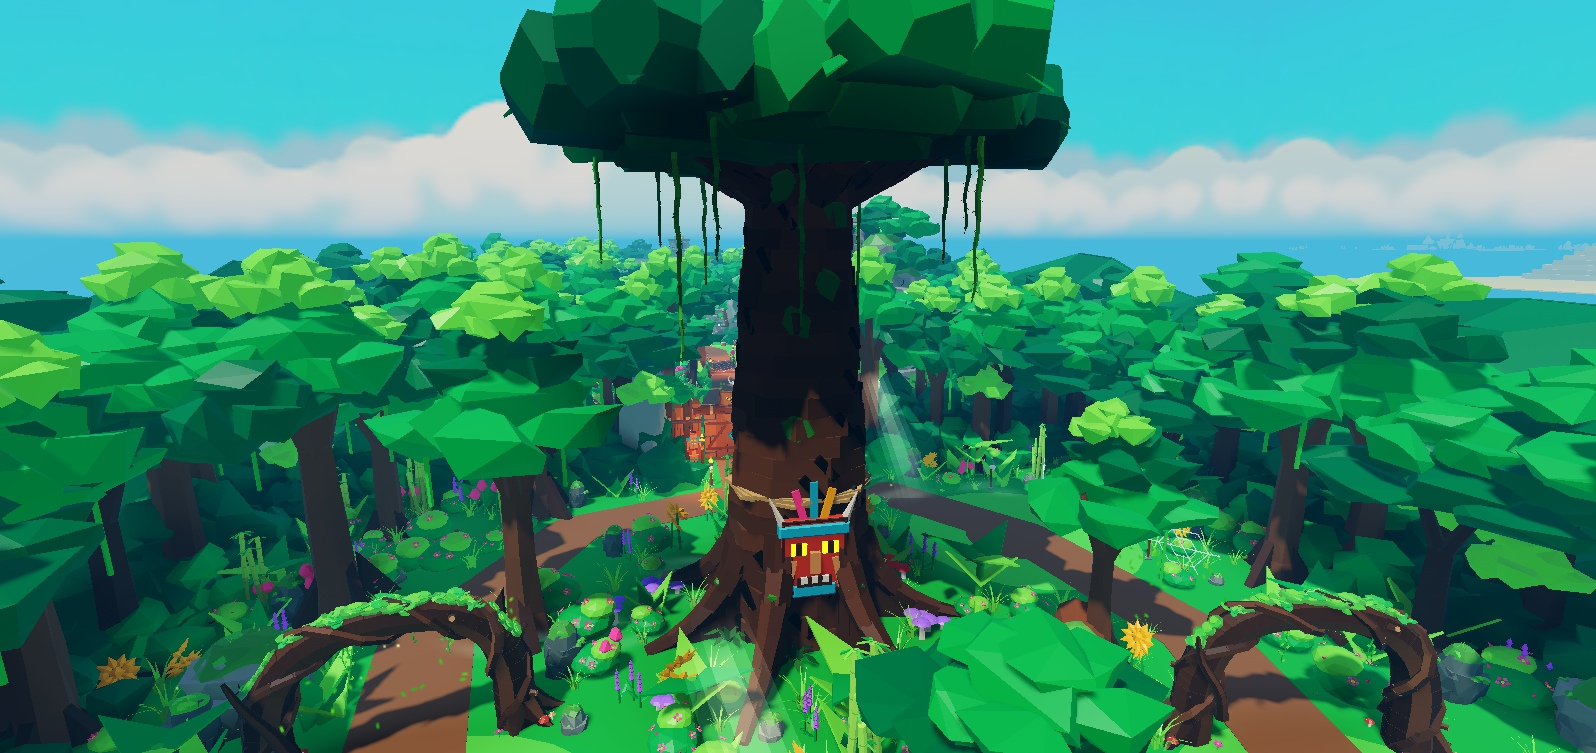
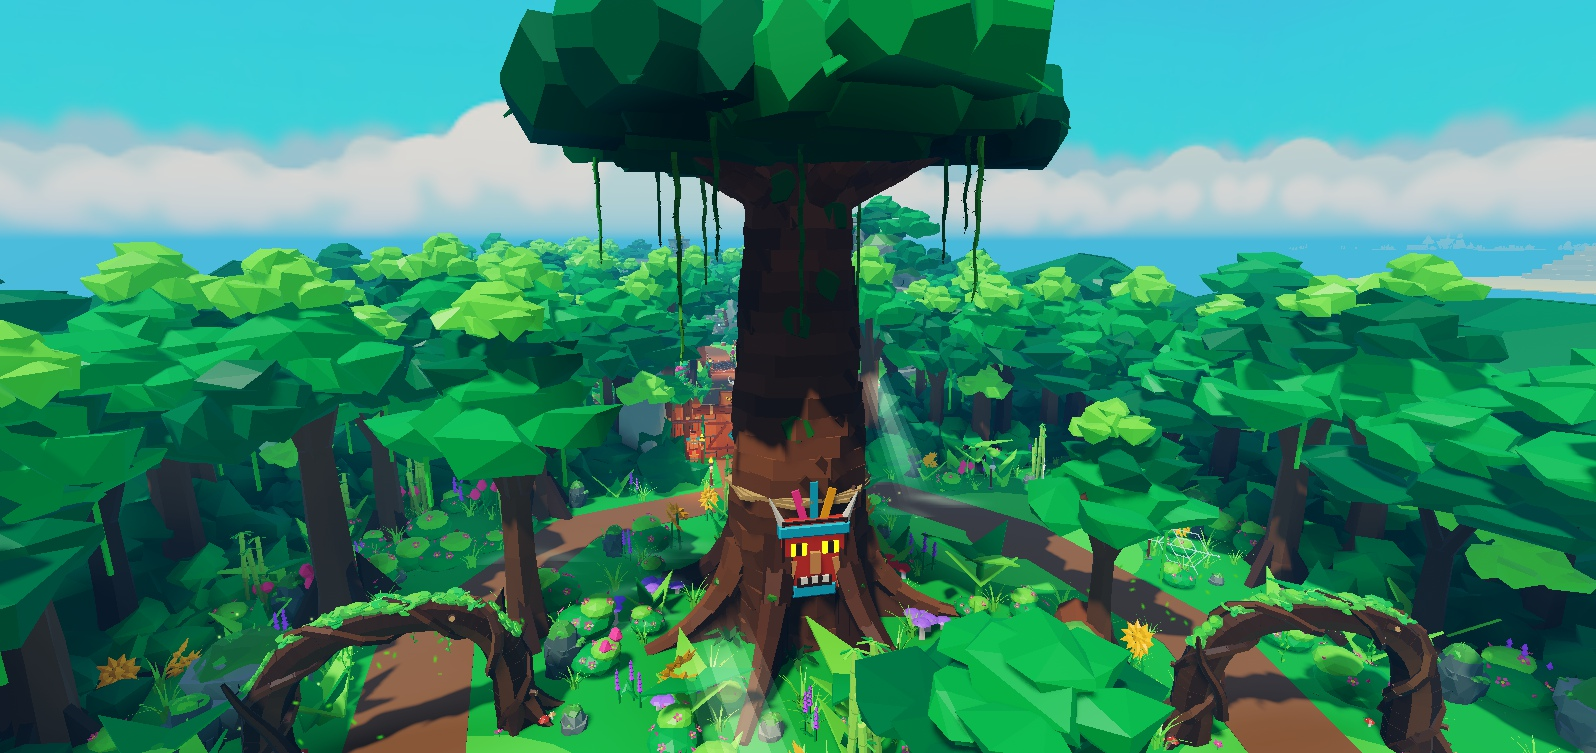
Round 6 assets 13-16: swamp crate, fence, hub sign and bone pile (recolours of the improved bases); giant tree trunk back to today's browns; before / after sheets

diff --git a/docs/NIGHT_LOG.md b/docs/NIGHT_LOG.md
@@ -4079,3 +4079,21 @@ only the tag and attributes, nothing else.
   the third "found" was the temporary arena copy for the shot, deleted); 59 x 33.9 x 52 -> 59 x 35 x 52 (bubbles).
   Shots round6_assets/12_giant_cauldron_* (map = a temporary workspace copy of the swamp arena).
 - Owner chose (chat, 2026-10-26): 09 giant tree keeps the whole tribal mask visible. Main agent asked the Studio agent to bring the 09 trunk back to today's browns (it read almost black).
+- 09 FIX (main / owner): the mask stays visible (owner). Bark lightened to today's trunk browns (#68442C x 1.14 / 1.27
+  / 1.4 from the foot to the top section and the limbs, grooves 0.78 of the section brown instead of near-black #221812;
+  roots from today's root colours x 1.15-1.25); re-synced 2/2, collision 44 / 44, 0 differences; 09 after shots re-shot
+  (same cameras).
+- ASSETS 13 - 16 DONE (PropsRound6 swamp recolours of the improved bases):
+  13 swamp_furniture_crate (P.swampCrate): the improved crate's parts in rotten wood (rusty caps / nails), moss on the
+     lid and a corner, mud at the foot; 9 colliders 9 / 9, 0 differences; replaced 3/3; 4 x 4 x 4 -> 4.5 x 4.2 x 4.5.
+  14 swamp_fence_fence (P.swampFence): B4.fence_section run from a temporary copy (destroyed after) in dark rotten
+     wood, bent posts, moss tufts, moss on rails and caps, mud at the feet; today's 4 colliders cloned exactly (the
+     plains kit's posts were 0.001 off the swamp ones); 4 / 4, 0 differences; the 8-stud joins unchanged; replaced 9/9.
+  15 swamp_sign_hub_sign (P.swampSign + P.swampSignVariants): the improved sign board recipe in rotten wood (bent post,
+     rope wrap, moss, rusty corners, stone footing) with the invisible GUI carrier "Board"; the copies' "Hub"
+     SurfaceGuis kept (sync moved them onto the carrier; the Back-face GUI, dropped by the sync's same-name rule, was
+     re-added from the Front one on all 3 map copies); Variants Heaven / Dead keep today's gold / grey colours there,
+     moss hidden; colliders: today's 3 + the board collider every copy had on its own Board part (3 -> 4); replaced 6/6.
+  16 swamp_statue_bone_pile (P.swampBonePile): the improved skull_bones meshes in dirty bone, moss, green slime drips
+     and a pool; no collider as today (0 / 0); replaced 2/2; footprint 6.44 x 5.76 -> 6.4 x 6.0.
+  Shots round6_assets/13_swamp_crate_*, 14_swamp_fence_*, 15_swamp_sign_*, 16_swamp_bone_pile_*.
